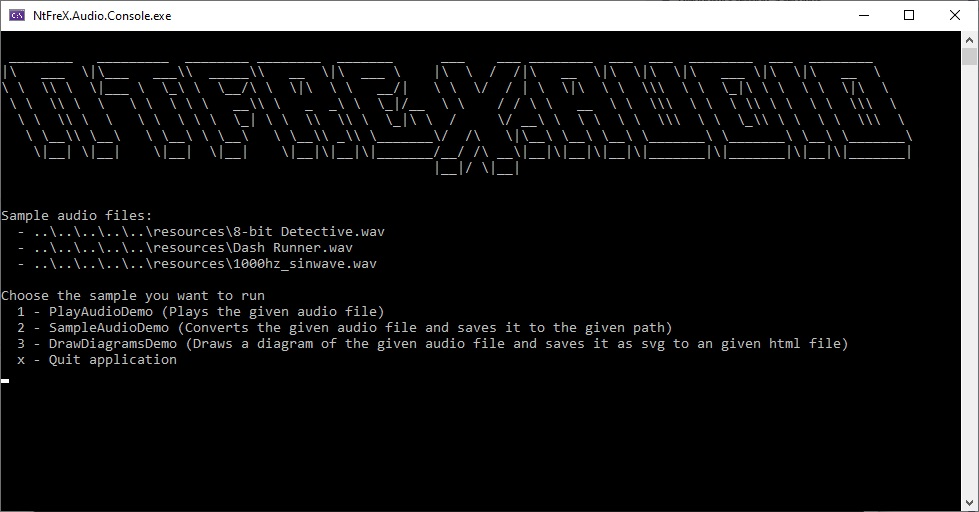
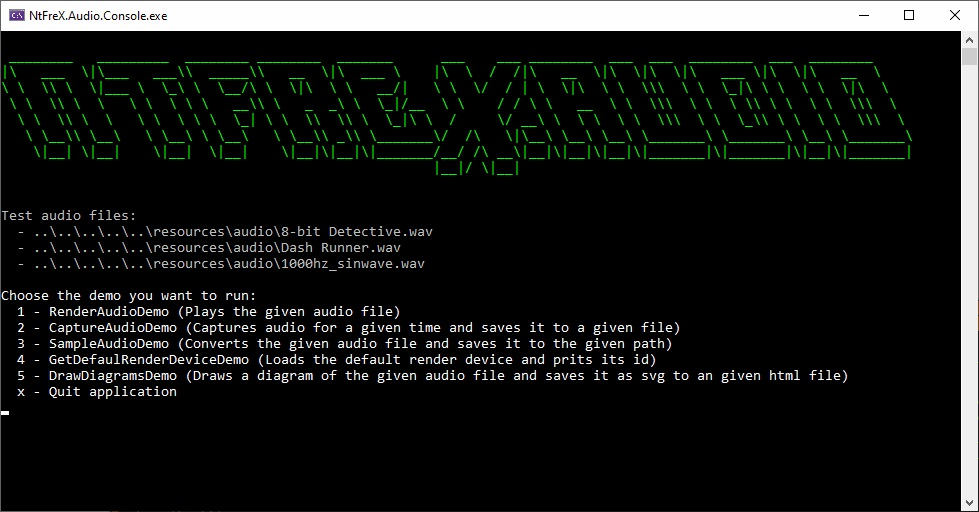
console demo prettify

diff --git a/demo/NtFreX.Audio.Console/Program.cs b/demo/NtFreX.Audio.Console/Program.cs
@@ -30,6 +30,7 @@ namespace NtFreX.Audio.Sampler.Console
         {
             using var cancellationTokenSource = new CancellationTokenSource();
 
+            System.Console.ForegroundColor = ConsoleColor.Green;
             System.Console.WriteLine();
             System.Console.WriteLine(@" ________   _________  ________ ________  _______      ___    ___ ________  ___  ___  ________  ___  ________     ");
             System.Console.WriteLine(@"|\   ___  \|\___   ___\\  _____\\   __  \|\  ___ \    |\  \  /  /|\   __  \|\  \|\  \|\   ___ \|\  \|\   __  \    ");
@@ -42,6 +43,7 @@ namespace NtFreX.Audio.Sampler.Console
             System.Console.WriteLine();
             System.Console.WriteLine();
 
+            System.Console.ForegroundColor = ConsoleColor.Gray;
             System.Console.WriteLine("Test audio files:");
             foreach(var file in SampleAudios)
             {
@@ -58,7 +60,8 @@ namespace NtFreX.Audio.Sampler.Console
             const string exitKey = "x";
             while (true)
             {
-                System.Console.WriteLine("Choose the demo you want to run");
+                System.Console.ForegroundColor = ConsoleColor.White;
+                System.Console.WriteLine("Choose the demo you want to run:");
                 for (var i = 0; i < Demos.Length; i++)
                 {
                     System.Console.WriteLine($"  {i + 1} - {Demos[i].Name} ({Demos[i].Description})");
